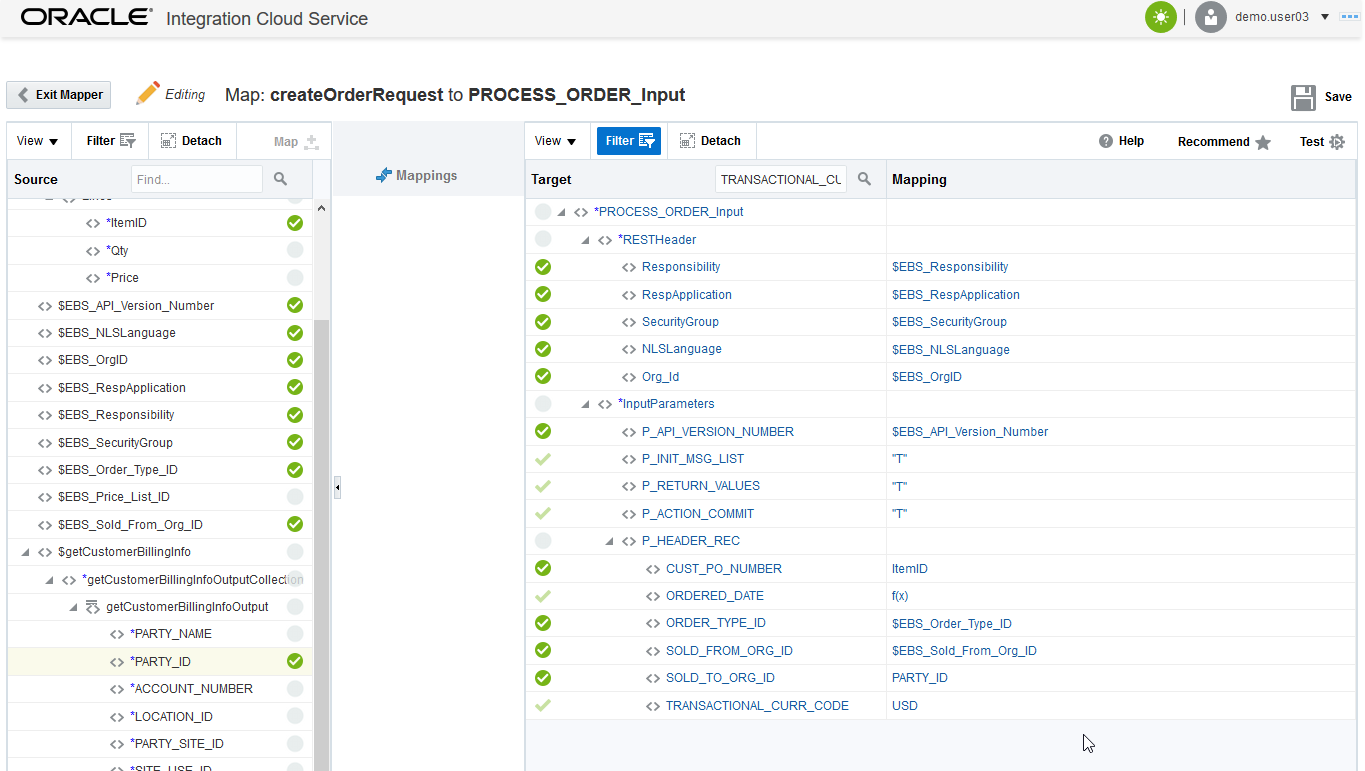
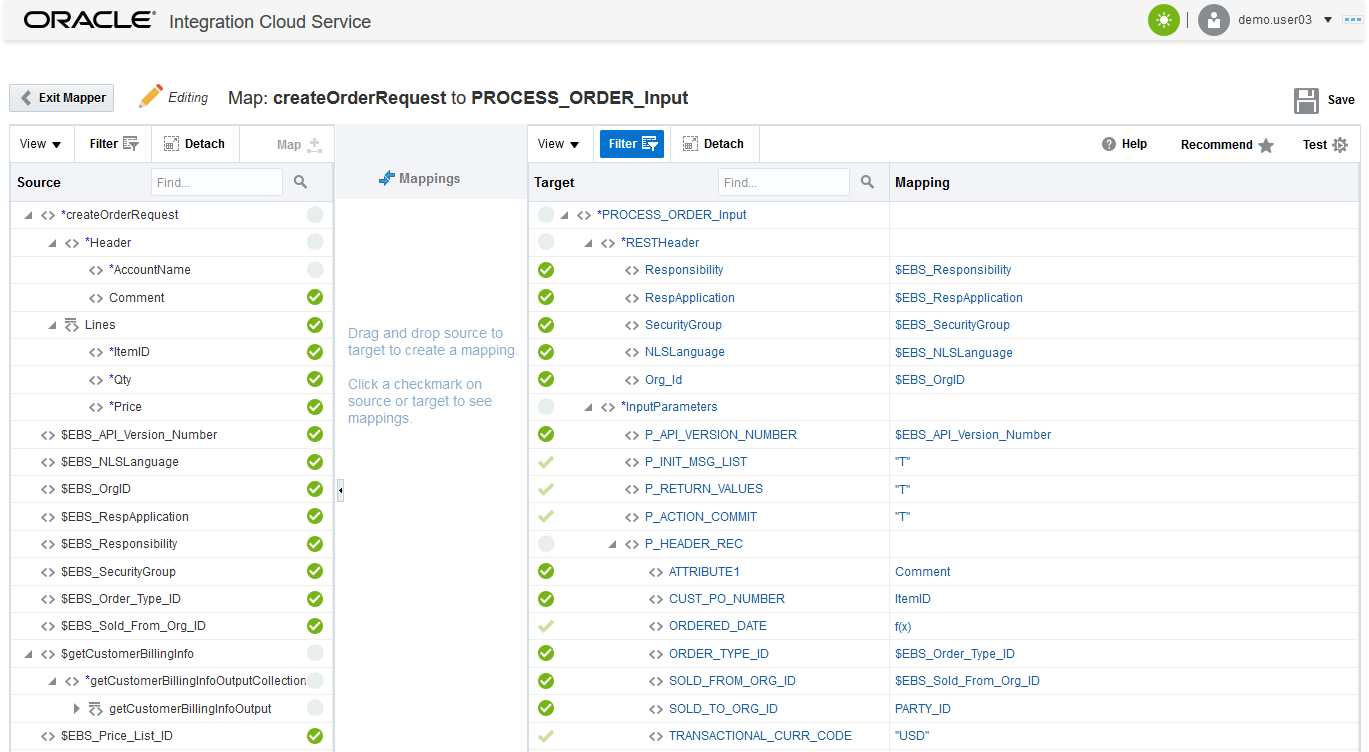
Lab 400 updates

diff --git a/ics-dev-workshop/css/solutionEngTemplate.css b/ics-dev-workshop/css/solutionEngTemplate.css
@@ -282,8 +282,6 @@ html {
     margin: .4rem;
 }
 
-div {}
-
 #introduction {
     width: 90%;
     margin: 5 auto;

diff --git a/ics-dev-workshop/ics400.md b/ics-dev-workshop/ics400.md
@@ -305,9 +305,11 @@ Note that the action tray will go away after you select your connector and start
 
 ![](images/400/image033.png)
 
-### **2.5**	Mapping the **RESTHeader** and **InputParameters** Target Variables for the *createEBSOrder* API invocation
+### **2.5**	Mapping the **RESTHeader** and **InputParameters** Target Variables for the **createEBSOrder** API invocation
 
 ---
+
+There are a total of 27 target variables that need to be mapped to successfully execute the EBS PROCESS_ORDER API call.  The next 4 sections will guide you through the process of mapping all these attributes.  Mapping many fields can be a common task while working with integrations.  ICS has the capability to do very complex mappings if necessary.
 
 **2.5.1** The *createEBSOrder* mapping orchestration step is just above the corresponding *createEBSOrder* API invocation.
 
@@ -373,41 +375,45 @@ Note that the action tray will go away after you select your connector and start
 
 ![](images/400/image041.png)
 
-### **2.6** Mapping the **P\_HEADER\_REC** Target Variables for the *createEBSOrder* API invocation
+### **2.6** Mapping the **P\_HEADER\_REC** Target Variables for the **createEBSOrder** API invocation
 
 ---
 
 **2.6.1** There are hundreds of attributes in the `P_HEADER_REC` so we will leverage the *Search* field to find the fields we need to map.
 
-**2.6.2** Enter the target attribute name `CUST_PO_NUMBER` in the search field, then click on the search *magnifying glass*.  The `CUST_PO_NUMBER` field will be display on top of the target variable list.
+**2.6.2** Map the `createOrderRequest -> Comment` variable over to `P_HEADER_REC -> ATTRIBUTE1`.  Click and drag the little circle just to the right of the source `Comment` variable and then drag and drop it on top of the little circle just to the left of the `ATTRIBUTE1` target variable.
+
+![](images/400/image057.png)
+
+**2.6.3** Enter the target attribute name `CUST_PO_NUMBER` in the search field, then click on the search *magnifying glass*.  The `CUST_PO_NUMBER` field will be display on top of the target variable list.
 
 **IMPORTANT NOTE**: Do not hit the search button for the variable more than once because it will go to the 2nd `CUST_PO_NUMBER` field which is in the next EBS payload section called `P_OLD_HEADER_REC`.
 
 ![](images/400/image042.png)
 
-**2.6.3** We just need a number in the `CUST_PO_NUMBER` target field, so, even though it's not specificall for a PO#, map the source payload `ItemID` over as shown in the following screenshot to assign a number for that field.
+**2.6.4** We just need a number in the `CUST_PO_NUMBER` target field, so, even though it's not specificall for a PO#, map the source payload `ItemID` over as shown in the following screenshot to assign a number for that field.
 
 ![](images/400/image043.png)
 
-**2.6.4** Next, we want to set the current date to the `ORDERED_DATE` header target variable.  Enter the target attribute name `ORDERED_DATE` in the search field, then click on the search *magnifying glass*.
+**2.6.5** Next, we want to set the current date to the `ORDERED_DATE` header target variable.  Enter the target attribute name `ORDERED_DATE` in the search field, then click on the search *magnifying glass*.
 
-**2.6.5** Click on the `ORDERED_DATE` header target variable to open up the advanced mapping editor.
+**2.6.6** Click on the `ORDERED_DATE` header target variable to open up the advanced mapping editor.
 
 ![](images/400/image044.png)
 
-**2.6.6** Scroll down and select `Mapping Components` on the bottom left of the *Source* side.
+**2.6.7** Scroll down and select `Mapping Components` on the bottom left of the *Source* side.
 
-**2.6.7** Click and expand *Functions*, then click and expand *Date* functions.
+**2.6.8** Click and expand *Functions*, then click and expand *Date* functions.
 
-**2.6.8** Drag and Drop the function `current-date` into the area labeled `-- Drag and Drop or Type here...`
+**2.6.9** Drag and Drop the function `current-date` into the area labeled `-- Drag and Drop or Type here...`
 
 ![](images/400/image045.png)
 
-**2.6.9** Select the *Save* and *Close* buttons
+**2.6.10** Select the *Save* and *Close* buttons
 
 ![](images/400/image046.png)
 
-**2.6.10** Search for and set the following `P_HEADER_REC` values:
+**2.6.11** Search for and set the following `P_HEADER_REC` values:
 
 <table border=2, border-width=2>
   <tr>
@@ -421,23 +427,23 @@ Note that the action tray will go away after you select your connector and start
   <tr><td>constant: <em>CREATE</em> (no quotes)</td><td>OPERATION</td></tr>
 </table>
 
-**2.6.11** We have mapped a lot of values and it's difficult to see what has been accomplished on the Target side because we were using the *Search* feature.  In order to make it easy to see what has been mapped, we will apply a *Filter* to the target variable side.
+**2.6.12** We have mapped a lot of values and it's difficult to see what has been accomplished on the Target side because we were using the *Search* feature.  In order to make it easy to see what has been mapped, we will apply a *Filter* to the target variable side.
 
-**2.6.12** Click on the *Filter* button on the *Target* side of the mapping editor.
+**2.6.13** Click on the *Filter* button on the *Target* side of the mapping editor.
 
-**2.6.13** In the *Filter* dialog box in the *Is it Mapped?* section, select the radio button `Mapped`, then select the *Apply* button.
+**2.6.14** In the *Filter* dialog box in the *Is it Mapped?* section, select the radio button `Mapped`, then select the *Apply* button.
 
 ![](images/400/image047.png)
 
-**2.6.14** You will now have a good view of all the currently mapped fields in the *RESTHeader*, *InputParameters*, and *P_HEADER_REC* target variable sections.
+**2.6.15** You will now have a good view of all the currently mapped fields in the *RESTHeader*, *InputParameters*, and *P_HEADER_REC* target variable sections.
 
-**2.6.15** Compare your work to the screenshot below:
+**2.6.16** Compare your work to the screenshot below:
 
 ![](images/400/image048.png)
 
-**2.6.16** It is a good practice to occasionally save your work during a long mapping exercise.  Click on the *Save* button in the upper right of the mapper to save your work up to this point.
+**2.6.17** It is a good practice to occasionally save your work during a long mapping exercise.  Click on the *Save* button in the upper right of the mapper to save your work up to this point.
 
-### **2.7** Mapping the *P\_LINE\_TBL* Target Variables for the *createEBSOrder* API invocation
+### **2.7** Mapping the **P\_LINE\_TBL** Target Variables for the **createEBSOrder** API invocation
 
 ---
 
@@ -516,73 +522,115 @@ Note that the action tray will go away after you select your connector and start
 
 **2.8.4** We want to put an interesting comment in the input `<ns0:Comment>` element in the `Input: createOrderRequest` incoming payload.
 
-**2.2.4.5** Edit the data in the generated inbound payload to something custom.  In this example it was set to *This is my Comment!*
+**2.8.5** Edit the data in the generated inbound payload to something custom.  In this example it was set to *This is my Comment!*
 
    ![](images/400/image055.png)
 
-**2.2.4.6** Now that the input data is ready, select the `Execute` button in the upper-right of the test window.
+**2.8.6** Now that the input data is ready, select the `Execute` button in the upper-right of the test window.
 
    ![](images/400/image056.png)
 
-**2.2.4.7** The mapping will be applied to the generated input data and the result will be shown in the `Output: PROCESS_ORDER_Input` section on the right side of the test window.
+**2.8.7** The mapping will be applied to the generated input data and the result will be shown in the `Output: PROCESS_ORDER_Input` section on the right side of the test window.
 
-**2.2.4.8** Look for your custom comment and note that it has been mapped to the `P_HEADER_REC` -> `ATTRIBUTE1` element.
+**2.8.8** Look for your custom comment and note that it has been mapped to the `P_HEADER_REC` -> `ATTRIBUTE1` element.
 
-   ![](images/400/image057.png)
+**2.8.9** Now that we have seen that our mapping has been successfully modified, we can close the test window. Select the `Close` button in the lower-right of the test window.
 
-**2.2.4.9** Now that we have seen that our mapping has been successfully modified, we can close the test window.
+   ![](images/400/image058.png)
 
-**2.2.4.10** Select the `Close` button in the lower-right of the test window.
+**2.8.10** Now we can close the Mapping Editor because our changes have been made and tested.
 
-   ![](images/300/image053.png)
+**2.8.11** Click on the `Exit Mapper` button in the upper-left of the Mapping Editor.
 
-**2.2.4.11** Now we can close the Mapping Editor because our changes have been made and tested.
+   ![](images/400/image059.png)
 
-**2.2.4.12** Click on the `Exit Mapper` button in the upper-left of the Mapping Editor.
+**2.8.12** Save your changes made to the integration by pushing the `Save` button in the upper-right of the integration.
 
-   ![](images/300/image054.png)
+   ![](images/400/image060.png)
 
-**2.2.4.13** Save your changes made to the cloned integration by pushing the `Save` button in the upper-right of the integration.
-
-   ![](images/300/image055.png)
-
-## 2.4: Activate Changes to the Integration
-
-### **2.4.1:**	Select the “Activate” switch
+### **2.9:** Remap the Return Payload
 
 ---
 
-**2.4.1.1** Click on the *Activate* switch/slider on the right of the cloned `Create EBS Order` integration.
+In Lab 300, we used a temporary mapping of the return values to verify the output of the 2 queries to the EBS database.  In this section we will remap those to the final configuration.
 
-   ![](images/300/image062.png)
+**2.9.1** Scroll down to the bottom of the orchestration and open up the *createOrder* mapping action.
 
-**2.4.1.2** The `Activate Integration?` dialog will be displayed
+![](images/400/image061.png)
 
-**2.4.1.3** Select the *Enable tracing* button since this isn’t a production deployment.  This checkbox will tell ICS that the payloads for each instance of the integration will be saved in the logfiles as explored in the first part of this lab earlier.
+**2.9.2** We need to delete the previous mappings from Lab 300.  Right-click on the target `OrderNumber` variable to pop-up the *Delete Mapping* menu.  
 
-**2.4.1.4** Now select the *Activate* button to begin activation of the integration.
+(Note: If the menu doesn't pop-up on the first right-click, try it again and it should appear)
 
-   ![](images/300/image063.png)
+![](images/400/image062.png)
 
-**2.4.1.5** The progress bar of the integration activation will move across the `Activate Integration?` dialog box.
+**2.9.3** Select *Yes* from the pop-up dialog that asks if you're sure you want to delete this mapping?
 
-   ![](images/300/image064.png)
+![](images/400/image063.png)
 
-**2.4.1.6** Once the integration is activated you will see that the activation slider now is colored green with a checkmark in it.
+**2.9.4** In the mapping editor, scroll the bottom of the Source variables and then expand the `$createEBSOrder -> PROCESS_ORDERResponse -> OutputParameters` variable by clicking on the little chevron just to the left of the variable.
 
-**2.4.1.7** A message will appear on the top of the ICS Designer Portal indicating that the integration activation was successful.  The WSDL for the service endpoint will also be displayed.
+**2.9.5** After expanding the `OutputParameters`, then expand the `X_MESSAGES` source variable and then the `X_MESSAGES_ITEM` variable.
 
-   ![](images/300/image065.png)
+**2.9.6** Click and drag the `X_MESSAGES_ITEM` source variable over to the target `ErrorMsgs -> Message` variable.
 
-### **2.4.2:**	Check the Service Endpoint
+![](images/400/image064.png)
+
+**2.9.7** Click and drag the source variable `X_RETURN_STATUS` over to the target `Status` variable
+
+![](images/400/image065.png)
+
+**2.9.8** Next, expand the source variable `X_HEADER_REC`, then in the search box on the source side, enter the string `ORDER_NUMBER` then select the search button (little magnifying glass)
+
+![](images/400/image066.png)
+
+**2.9.9** Map the `ORDER_NUMBER` source variable over to the `OrderNumber` target variable.
+
+![](images/400/image067.png)
+
+**2.9.10** Click on the *Save* button in the upper right of the mapping editor.
+
+**2.9.10** Now, click on the *Exit Mapper* button in the upper left of the mapping editor.
+
+![](images/400/image068.png)
+
+**2.9.11** From the orchestration, select the *Save* button to save all the changes made to the final mapping for the return payload.
+
+**2.9.12** Finally, select the *Exit Integration* button in the upper left of the orchestration designer.
+
+![](images/400/image069.png)
+
+### **2.10:** Activate Changes to the Integration
 
 ---
 
-**2.4.2.1** Click on the WSDL link so we can ensure that this integration has an available service endpoint.
+**2.10.1** Click on the *Activate* switch/slider on the right of the `UserXX Create EBS Order` integration.
 
-   ![](images/300/image066.png)
+   ![](images/400/image070.png)
+
+**2.10.2** The `Activate Integration?` dialog will be displayed
+
+**2.10.3** Select the *Enable tracing* button since this isn’t a production deployment.  This checkbox will tell ICS that the payloads for each instance of the integration will be saved in the logfiles as explored in the first part of this lab earlier.
+
+**2.10.4** Now select the *Activate* button to begin activation of the integration.
+
+   ![](images/400/image071.png)
+
+**2.10.5** Once the integration is activated you will see that the activation slider now is colored green with a checkmark in it.
+
+**2.10.6** A message will appear on the top of the ICS Designer Portal indicating that the integration activation was successful.  The WSDL for the service endpoint will also be displayed.
+
+   ![](images/400/image072.png)
+
+### **2.11:**	Check the Service Endpoint
+
+---
+
+**2.11.1** Click on the WSDL link so we can ensure that this integration has an available service endpoint.
+
+   ![](images/400/image073.png)
 
 **2.4.2.2** The WSDL for you new ICS integration will now be displayed in your browser.
 
-   ![](images/300/image067.png)
+   ![](images/400/image074.png)
 
